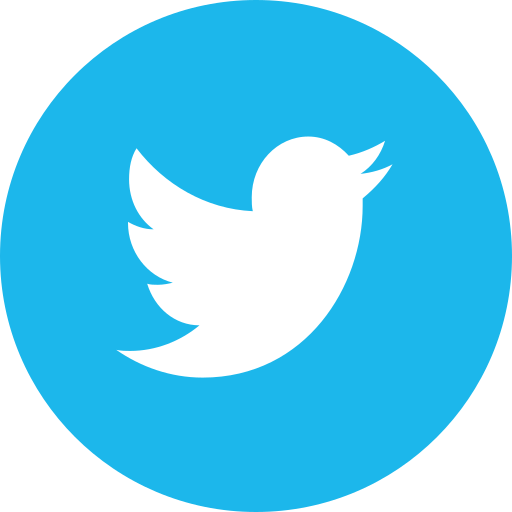
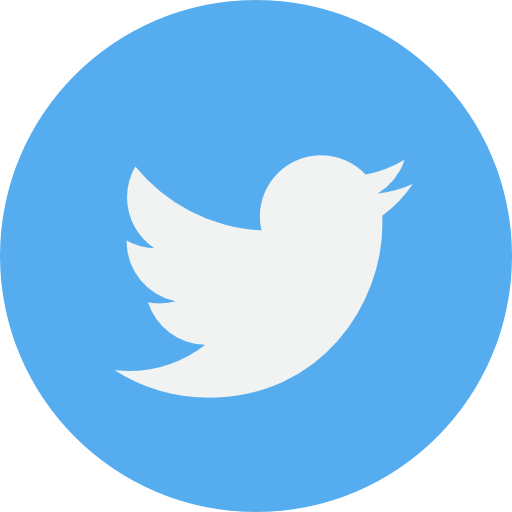
rodape

diff --git a/index.html b/index.html
@@ -87,8 +87,8 @@
 <footer>
     <div id="rodape">
      <a href="#"><img src="img/git.png" alt="github"></a>
-     <a href="#"><img src="img/twitter2.png" alt="twitter"></a>
-     <a href="#"><img src="img/insta2.png" alt="twitter"></a>
+     <a href="#"><img src="img/instagram.png" alt="instagram"></a>
+     <a href="#"><img src="img/twitter.png" alt="twitter"></a>
     </div>
 </footer>
 </body>

diff --git a/css/css.css b/css/css.css
@@ -60,7 +60,7 @@ font-weight: bold;
     display:block ;     
 }
 #img img{ 
-    border: solid red 3px;
+    border: solid #ffa047 3px;
     border-radius: 20px; 
     margin: 0 auto;
     display: block;
